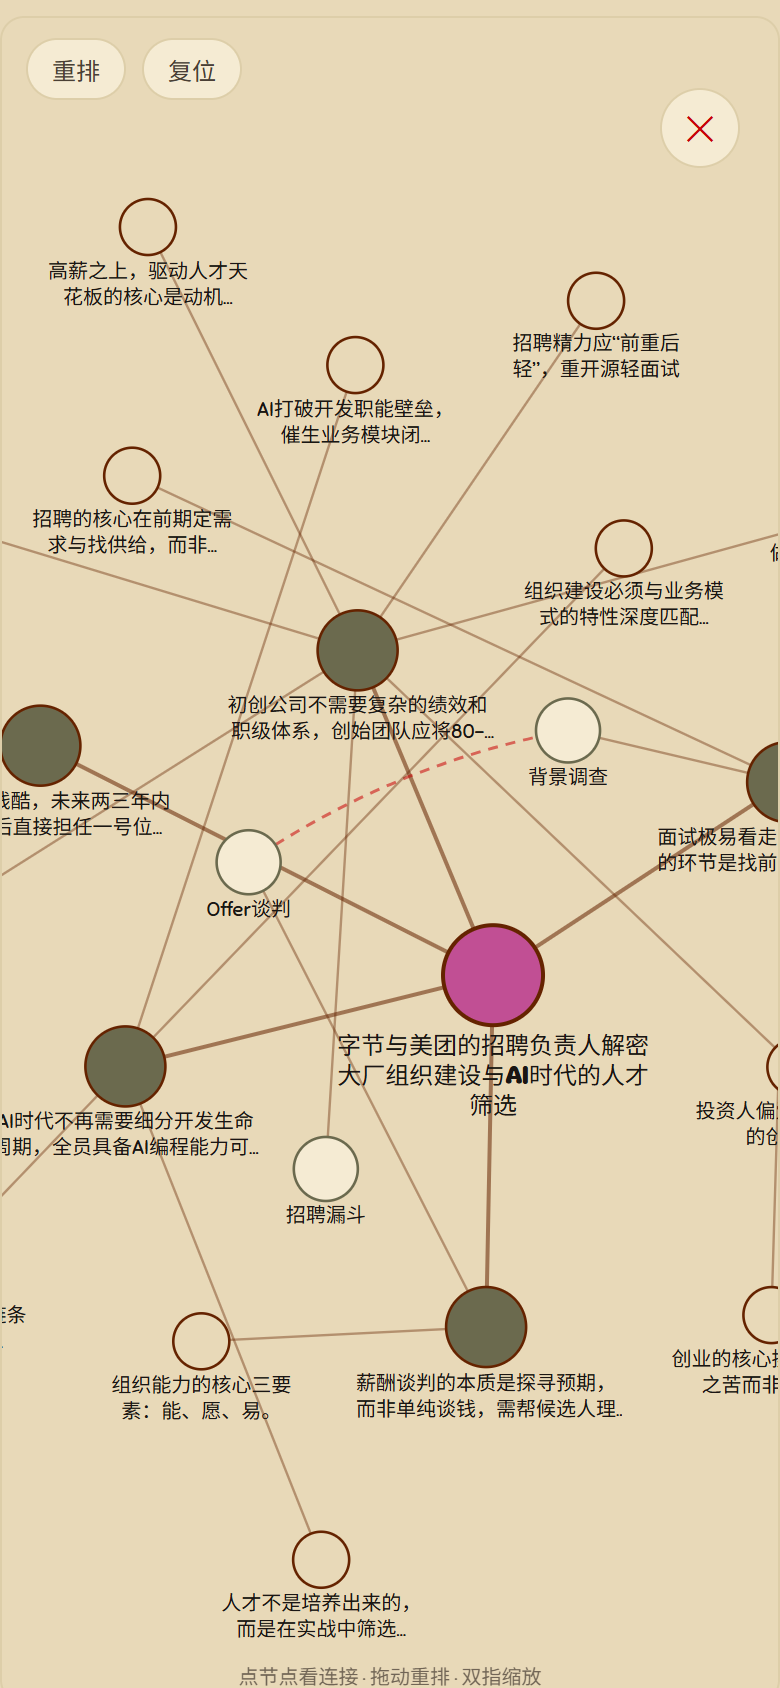
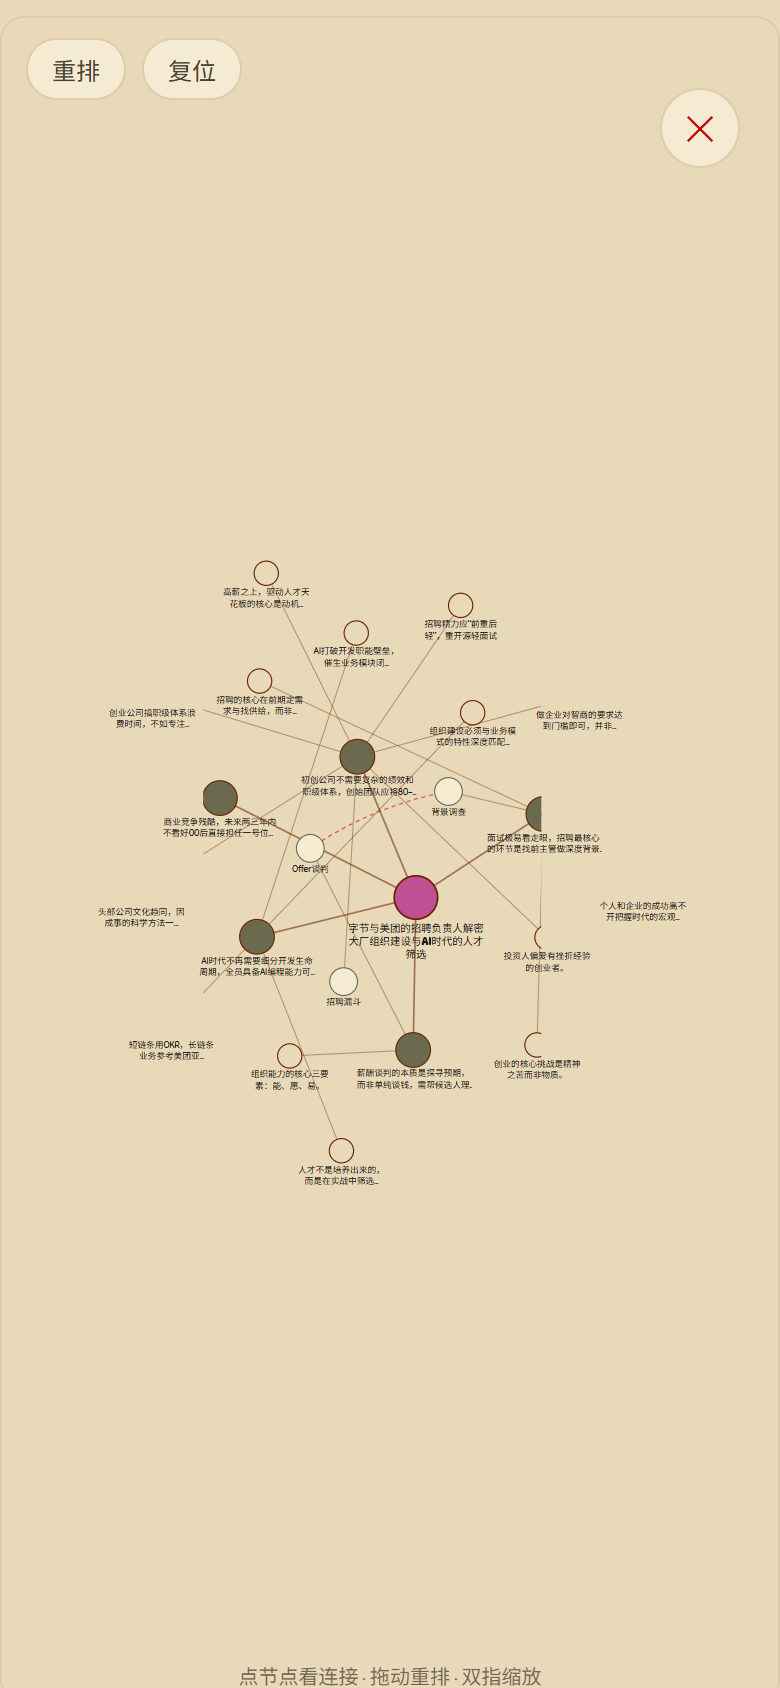
feat(sprint16): R42 脑图全屏铺满 + 点节点只显相邻层级 (Frank真机反馈)
#3 全屏展示不全: 力导向收敛后节点聚成一团/偏画布角落, 缩放也看不全。
  加 fit-to-viewport —— 算可见节点 bounding box, 自动缩放居中铺满画布(PAD 40,
  上限 1.8x)。修正 RN transform 中心缩放语义(translate=s*(C-bbox中心))。
#4 点节点跳级: 单篇 center 直连孤儿 concept/card(lib/mindmap), 纯一跳把跨级
  节点带进来。加 levelOf(center=0/core=1/concept·card=2), highlightSet 只纳入
  层级差≤1 的邻居 → 点主旨只显核心观点, 对齐 library 二分图行为。
唯一改 ForceGraph.tsx。web Playwright 验证: 全屏铺满 + 点中心只显5个core无concept。
OTA v73→v74。

diff --git a/components/graph/ForceGraph.tsx b/components/graph/ForceGraph.tsx
@@ -21,6 +21,13 @@ function truncate(s: string, n: number) {
   return s && s.length > n ? s.slice(0, n) + '…' : (s || '');
 }
 
+// R42(#4): 节点层级序 (center 最内 → concept/card 叶子)。用于"点节点只显相邻一个层级"。
+function levelOf(kind: string): number {
+  if (kind === 'center') return 0;
+  if (kind === 'core') return 1;
+  return 2; // concept / card 同为叶子层
+}
+
 // 二次贝塞尔控制点 = 中点沿法向偏移, 让 semantic 边弯曲避开交叉
 function bezierPath(x1: number, y1: number, x2: number, y2: number, bow = 18) {
   const mx = (x1 + x2) / 2, my = (y1 + y2) / 2;
@@ -144,19 +151,23 @@ function GraphCanvas({
     })
     .onEnd(() => { runOnJS(setLabelScale)(scale.value); });
   const canvasGesture = Gesture.Simultaneous(canvasPan, pinch);
-  const canvasStyle = useAnimatedStyle(() => ({
-    transform: [{ translateX: tx.value }, { translateY: ty.value }, { scale: scale.value }],
-  }));
 
   const nodeById = useMemo(() => new Map(nodes.map(n => [n.id, n])), [nodes]);
 
-  // 高亮集: 选中节点 + 一跳邻居 (所有连接节点)
+  // R42(#4): 高亮集 = 选中节点 + 一跳邻居中"相邻层级"的节点 (只显上下一个层级, 对齐 library)。
+  //   层级: center=0 core=1 concept/card=2。单篇里孤儿 concept / 无归属 card 被直连 center(lib/mindmap),
+  //   纯一跳会把跨级节点带进来(点主旨冒出 concept 空心圈)。按层级差 ≤1 过滤 → 点 center 只显 core。
+  //   library 二分图 me(0)→pack(1)→concept(2) 全相邻, 行为不变。
   const highlightSet = useMemo(() => {
     if (!selected) return null;
     const set = new Set<string>([selected.id]);
-    (adjacency.get(selected.id) || new Set()).forEach(id => set.add(id));
+    const selLv = levelOf(selected.kind);
+    (adjacency.get(selected.id) || new Set()).forEach(id => {
+      const nb = nodeById.get(id);
+      if (nb && Math.abs(levelOf(nb.kind) - selLv) <= 1) set.add(id);
+    });
     return set;
-  }, [selected, adjacency]);
+  }, [selected, adjacency, nodeById]);
 
   // R40 可见性:
   //   - showAll(全屏/非渐进) 且无选中 → 全部节点可见 (一律全展示, 不靠缩放)
@@ -174,6 +185,43 @@ function GraphCanvas({
   }, [selected, highlightSet, showAll, nodes, graph.edges, expandedCores]);
 
   const isVisible = useCallback((id: string) => !visibleIds || visibleIds.has(id), [visibleIds]);
+
+  // R42(#3): fit-to-viewport —— 力导向收敛后节点常聚成一团(尤其横屏大画布左右留白)。
+  //   算可见节点 bounding box → 基础缩放+平移让整团居中铺满画布(留 padding)。
+  //   用户 pan/pinch 在此基础变换之上叠加。仅全屏启用(内嵌走 entryOnly 无内容)。
+  //   fitScale 上限 1(不放大糊图), 只缩小到刚好装下。nodes 变化(收敛/拖动)时重算。
+  const fit = useMemo(() => {
+    if (!fullscreen || !width || !height) return { s: 1, tx: 0, ty: 0 };
+    const vis = nodes.filter(n => isVisible(n.id) && n.x != null && n.y != null);
+    if (vis.length === 0) return { s: 1, tx: 0, ty: 0 };
+    let minX = Infinity, minY = Infinity, maxX = -Infinity, maxY = -Infinity;
+    for (const n of vis) {
+      const r = (n._cr ?? n._r ?? rOf(n.kind)) + 8;   // 含标签足迹半径, 别让边缘节点被裁
+      minX = Math.min(minX, n.x! - r); maxX = Math.max(maxX, n.x! + r);
+      minY = Math.min(minY, n.y! - r); maxY = Math.max(maxY, n.y! + r);
+    }
+    const PAD = 40;
+    const bw = Math.max(1, maxX - minX), bh = Math.max(1, maxY - minY);
+    // 放大填满画布(受较紧的一维约束); 上限 1.8 防标签放太大糊/失真。收敛团比画布小很多时也能铺开。
+    const s = Math.min((width - PAD * 2) / bw, (height - PAD * 2) / bh, 1.8);
+    // RN transform 的 scale 以 View 中心 C=(width/2,height/2) 为基准, 且 translate 不被 scale 缩放。
+    //   要让节点 p 渲染到 s*p + tDesired (tDesired 使 bbox 中心落到画布中心):
+    //     render = C + s*(p-C) + translate  ⟹  translate = tDesired - C*(1-s)
+    //   其中 tDesired = 画布中心 - s*bbox中心。合并得 translate = (C - s*bcx) - C*(1-s) = s*(C - bcx)。
+    const bcx = (minX + maxX) / 2, bcy = (minY + maxY) / 2;
+    const cx = width / 2, cy = height / 2;
+    const tx = s * (cx - bcx);
+    const ty = s * (cy - bcy);
+    return { s, tx, ty };
+  }, [fullscreen, width, height, nodes, isVisible]);
+
+  // 用户 pan/pinch 叠加在 fit 基础变换之上 (fit 先应用=最内层, 手势在其上)。
+  const canvasStyle = useAnimatedStyle(() => ({
+    transform: [
+      { translateX: tx.value }, { translateY: ty.value }, { scale: scale.value },
+      { translateX: fit.tx }, { translateY: fit.ty }, { scale: fit.s },
+    ],
+  }));
 
   const nodeOpacity = (id: string) => 1;   // 可见的都全不透明 (不可见的已被 isVisible 过滤掉)
   const edgeOpacity = (a: string, b: string, baseOp: number) => baseOp;

diff --git a/components/OtaBadge.tsx b/components/OtaBadge.tsx
@@ -218,9 +218,12 @@ import { colors, fonts } from '@/constants/theme';
 // v73 (R41, OTA): 修图片上传真机超时 —— DebugUploadZone 的 API fallback 原为 localhost:3002
 //       (EXPO_PUBLIC_API_URL 未进 bundle 时真机连本机失败), 对齐 lib/api.ts 改 https://api.k0.yiiling.cn。
 //       服务器端另修: .env DB_HOST 公网IP→127.0.0.1, 5MB blob INSERT 28s→0.16s (已生效, 无需OTA)。
-export const OTA_VERSION = 73;
+// v74 (R42, OTA): 脑图两个真机问题 (Frank 图确认):
+//       • 全屏 fit-to-viewport: 力导向收敛后节点聚一团/偏角落, 现自动缩放居中铺满画布(修"展示不全")。
+//       • 点节点只显相邻一个层级(层级差≤1): 单篇点主旨只显核心观点, 不再跳级冒出 concept(对齐 library)。
+export const OTA_VERSION = 74;
 
-export const OTA_VERSION_MESSAGE = 'v73 · 修图片上传超时';
+export const OTA_VERSION_MESSAGE = 'v74 · 脑图全屏铺满 · 点节点只显相邻层';
 
 type OtaState = 'checking' | 'idle' | 'downloading' | 'ready' | 'applying' | 'error';
 